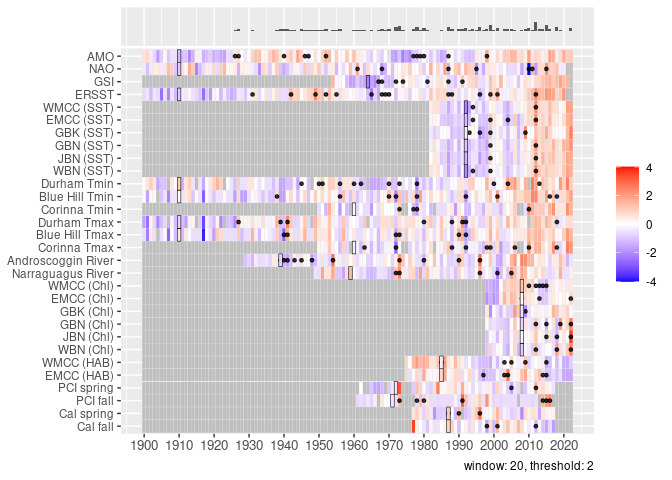
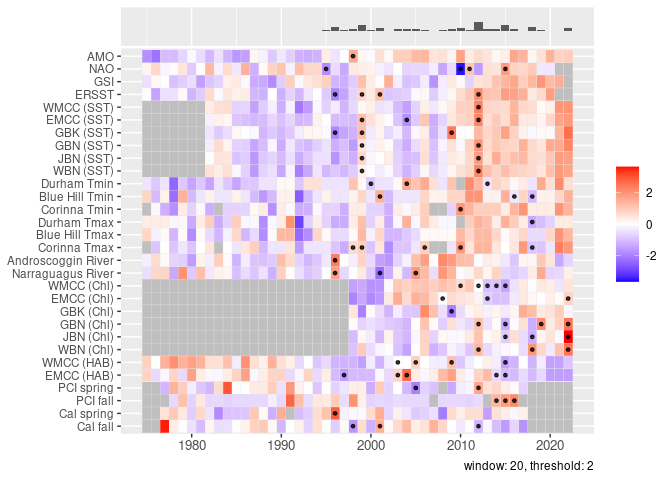
simplify fig 4

diff --git a/readme/README-fig4.md b/readme/README-fig4.md
@@ -13,12 +13,20 @@ term mean with “surprises” indicated with a dot.
 ``` r
 surprise_window = 20
 surprise_threshold = 2
+
+this_set = c("NAO", "ERSST")
+
+
 x = read_export(by = 'year', 
                 selection = read_target_vars(treatment = c("median")),
                 replace_names = TRUE, 
                 standardize = FALSE) |>
-    dplyr::filter(date >= as.Date("1900-01-01"))
-plot_departure_surprise(x, surprise_window = surprise_window)
+    dplyr::filter(date >= as.Date("1975-01-01"))
+
+
+
+
+plot_departure_surprise(x, surprise_window = surprise_window, delimit_surprise = FALSE)
 ```
 
 ![](README-fig4_files/figure-gfm/unnamed-chunk-2-1.png)<!-- -->
